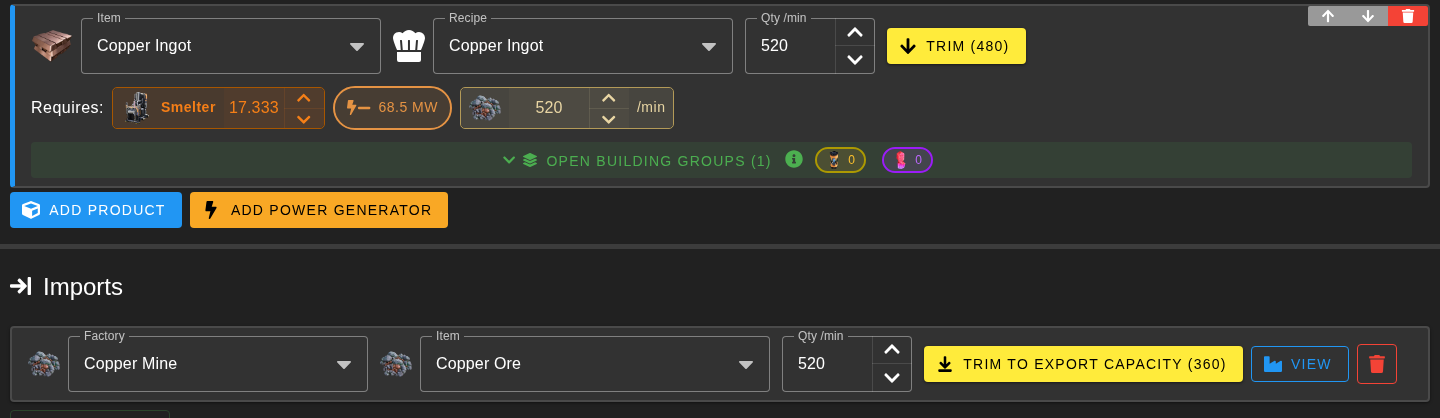
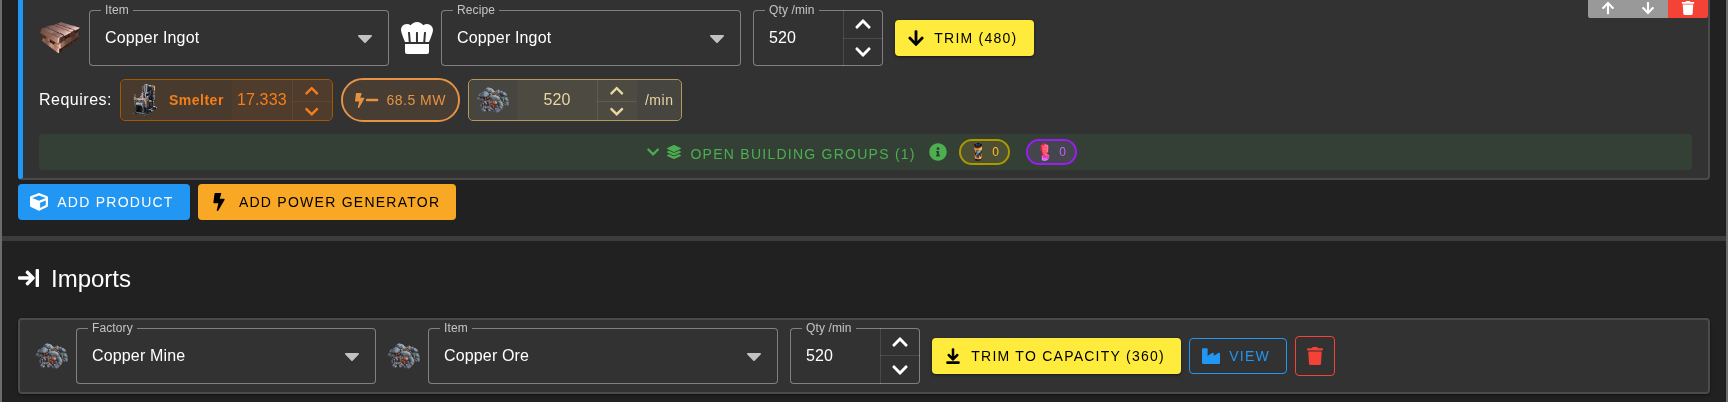
feat(web): satisfy an import to what the supplier can spare
Being short of more than a supplier can make took two presses. A factory
5,000 Limestone short of a mine with 2,600 spare had only Satisfy, which
sized the row against the 5,000 it needed, immediately over-asked the
mine, and put the freshly-added Trim to Capacity on screen to take it
straight back down to the 2,600 you could have had in the first place.

Satisfy to Capacity lands on that figure in one go: the Satisfy target,
capped at what the supplier actually has spare. It only appears when it
has something of its own to say — not when the supplier can cover the
whole need (Satisfy already lands within capacity), not when the row
already asks for more than the capacity (that is Trim to Capacity's job,
and it is on screen naming the same figure), and not when the supplier
has nothing spare, since zero is not a valid import quantity.

Need and Capacity are the two questions an import row can be sized
against, so all four buttons now say which one they answer: Satisfy to
Need and Trim to Need against what this factory wants, Satisfy to
Capacity and Trim to Capacity against what the supplier can give. Each
still names the figure it would set.

Taking the capacity doesn't pretend the shortfall is solved: the supplier
goes fully committed and green, and the importing factory keeps the gap
it always really had, with Satisfy to Need still on offer for a second
supplier.

Two things found while verifying this in the browser:
[…]

diff --git a/web/src/utils/factory-management/inputs.spec.ts b/web/src/utils/factory-management/inputs.spec.ts
@@ -7,9 +7,11 @@ import { addPowerProducerToFactory } from '@/utils/factory-management/power'
 import {
   addInputToFactory, calculateAbleToImport,
   calculateImportCandidates, calculateImportCapacity,
-  calculatePossibleImports, deleteInputPair, importExceedsCapacity, importFactorySelections,
+  calculatePossibleImports, canSatisfyImportToCapacity, deleteInputPair, importExceedsCapacity,
+  importFactorySelections,
   importPartSelections, importRowId, isDuplicateImport, isImportRedundant, satisfyImport,
-  satisfyImportTarget, trimImportToCapacity, validateInput,
+  satisfyImportTarget, satisfyImportToCapacity, satisfyImportToCapacityTarget,
+  trimImportToCapacity, validateInput,
 } from '@/utils/factory-management/inputs'
 import { getExportableFactories } from '@/utils/factory-management/exports'
 import { gameData } from '@/utils/gameData'
@@ -950,6 +952,122 @@ describe('inputs', () => {
         trimImportToCapacity(0, plateFac, ingotFac)
 
         expect(plateFac.inputs[0].amount).toBe(120)
+      })
+    })
+
+    // The other half of the same question: Trim shrinks a row down to the provider's capacity,
+    // this grows a short row up to it. Satisfy on its own would jump straight past the capacity to
+    // the full need, which then needs trimming straight back down again.
+    describe('satisfy to capacity', () => {
+      beforeEach(() => {
+        // The shared setup deliberately over-asks; shrink the row so there is room to grow into.
+        plateFac.inputs[0].amount = 50
+        calculateFactories(factories, gameData)
+      })
+
+      describe('satisfyImportToCapacityTarget', () => {
+        it('should cap the satisfy target at what the provider can spare', () => {
+          expect(satisfyImportTarget(0, plateFac)).toBe(300)
+          expect(satisfyImportToCapacityTarget(0, plateFac, ingotFac)).toBe(200)
+        })
+
+        it('should be the full need when the provider can cover it', () => {
+          ingotFac.products[0].amount = 400
+          calculateFactories(factories, gameData)
+
+          expect(satisfyImportToCapacityTarget(0, plateFac, ingotFac)).toBe(300)
+        })
+
+        it('should return null while the row is still being filled in', () => {
+          plateFac.inputs[0].outputPart = null
+          expect(satisfyImportToCapacityTarget(0, plateFac, ingotFac)).toBe(null)
+        })
+      })
+
+      describe('canSatisfyImportToCapacity', () => {
+        it('should offer when the provider cannot cover the whole need', () => {
+          expect(canSatisfyImportToCapacity(0, plateFac, ingotFac)).toBe(true)
+        })
+
+        it('should not offer when the provider can cover the whole need', () => {
+          // Satisfy already lands within capacity, so a second button would set the same figure.
+          ingotFac.products[0].amount = 400
+          calculateFactories(factories, gameData)
+
+          expect(canSatisfyImportToCapacity(0, plateFac, ingotFac)).toBe(false)
+        })
+
+        it('should not offer when the row already asks for more than the capacity', () => {
+          // That is Trim to Capacity's job, and it is already on screen saying the same figure.
+          plateFac.inputs[0].amount = 300
+          calculateFactories(factories, gameData)
+
+          expect(canSatisfyImportToCapacity(0, plateFac, ingotFac)).toBe(false)
+        })
+
+        it('should not offer when the row already sits exactly on the capacity', () => {
+          plateFac.inputs[0].amount = 200
+          calculateFactories(factories, gameData)
+
+          expect(canSatisfyImportToCapacity(0, plateFac, ingotFac)).toBe(false)
+        })
+
+        it('should not offer when the provider has nothing spare', () => {
+          // A quantity of zero is not a valid import and would only trip validateInput.
+          addProductToFactory(ingotFac, {
+            id: 'IronRod',
+            amount: 250,
+            recipe: 'IronRod',
+          })
+          calculateFactories(factories, gameData)
+
+          expect(canSatisfyImportToCapacity(0, plateFac, ingotFac)).toBe(false)
+        })
+
+        it('should not offer while the row is still being filled in', () => {
+          plateFac.inputs[0].outputPart = null
+          expect(canSatisfyImportToCapacity(0, plateFac, ingotFac)).toBe(false)
+        })
+      })
+
+      describe('satisfyImportToCapacity', () => {
+        it('should grow the import to what the provider can spare', () => {
+          satisfyImportToCapacity(0, plateFac, ingotFac)
+          expect(plateFac.inputs[0].amount).toBe(200)
+        })
+
+        it('should leave the provider fully committed but not over-asked', () => {
+          satisfyImportToCapacity(0, plateFac, ingotFac)
+          calculateFactories(factories, gameData)
+
+          expect(ingotFac.dependencies.metrics.IronIngot.request).toBe(200)
+          expect(ingotFac.dependencies.metrics.IronIngot.isRequestSatisfied).toBe(true)
+        })
+
+        it('should leave the importing factory showing the gap it always had', () => {
+          satisfyImportToCapacity(0, plateFac, ingotFac)
+          calculateFactories(factories, gameData)
+
+          // 300 needed, 200 obtainable: the 100 shortfall stays on the factory that has it,
+          // rather than surfacing on the provider as an export request it can never meet.
+          expect(plateFac.parts.IronIngot.amountRemaining).toBe(-100)
+        })
+
+        it('should stop at the need when the provider can cover more', () => {
+          ingotFac.products[0].amount = 400
+          calculateFactories(factories, gameData)
+
+          satisfyImportToCapacity(0, plateFac, ingotFac)
+
+          expect(plateFac.inputs[0].amount).toBe(300)
+        })
+
+        it('should return null and leave the row alone if there is no target', () => {
+          plateFac.inputs[0].outputPart = null
+
+          expect(satisfyImportToCapacity(0, plateFac, ingotFac)).toBe(null)
+          expect(plateFac.inputs[0].amount).toBe(50)
+        })
       })
     })
   })

diff --git a/web/src/components/planner/imports/Imports.vue b/web/src/components/planner/imports/Imports.vue
@@ -82,34 +82,59 @@
           />
           <debounce-spinner :active="pendingRecalc === `${input.factoryId}-${input.outputPart}`" />
         </div>
-        <div class="input-row d-flex align-center">
+        <!-- Wraps rather than overflowing: a row can carry a Need button and a Capacity button at
+             once, and the pair plus View and delete is wider than the card on any screen. -->
+        <div class="input-row d-flex align-center flex-wrap ga-2">
+          <!-- Need and Capacity are the two questions an import row can be sized against: what this
+               factory wants, and what the supplier can actually give. Every button here names which
+               one it answers, because asking a supplier for more than it makes is a valid thing to
+               do deliberately and used to be the only thing Satisfy could do. -->
           <v-btn
             v-show="requirementSatisfied(factory, input.outputPart) && showInputOverflow(factory, input.outputPart)"
-            class="rounded mr-2"
+            class="rounded"
             color="yellow"
             prepend-icon="fas fa-arrow-down"
             size="default"
             @click="updateInputToSatisfy(inputIndex, factory)"
-          >Trim{{ satisfyTargetLabel(inputIndex) }}</v-btn>
+          >Trim to Need{{ satisfyTargetLabel(inputIndex) }}</v-btn>
           <v-btn
             v-show="input.outputPart && !requirementSatisfied(factory, input.outputPart)"
-            class="rounded mr-2"
+            class="rounded"
             color="green"
             prepend-icon="fas fa-arrow-up"
             size="default"
             @click="updateInputToSatisfy(inputIndex, factory)"
-          >Satisfy{{ satisfyTargetLabel(inputIndex) }}</v-btn>
+          >Satisfy to Need{{ satisfyTargetLabel(inputIndex) }}</v-btn>
+          <v-tooltip location="top" max-width="360">
+            <template #activator="{ props: tooltipProps }">
+              <span v-show="canSatisfyToCapacity(inputIndex)">
+                <v-btn
+                  v-bind="tooltipProps"
+                  class="rounded"
+                  color="green"
+                  prepend-icon="fas fa-arrow-to-top"
+                  size="default"
+                  @click="satisfyInputToCapacity(inputIndex, factory)"
+                >Satisfy to Capacity{{ fixTargetSuffix(importCapacity(inputIndex)) }}</v-btn>
+              </span>
+            </template>
+            <span>
+              This factory needs more than {{ providerName(inputIndex) }} can supply. Take the
+              {{ formatNumber(importCapacity(inputIndex) ?? 0) }}/min it does have spare, rather
+              than asking for the full amount and having to trim it back afterwards.
+            </span>
+          </v-tooltip>
           <v-tooltip location="top" max-width="360">
             <template #activator="{ props: tooltipProps }">
               <span v-show="exceedsCapacity(inputIndex)">
                 <v-btn
                   v-bind="tooltipProps"
-                  class="rounded mr-2"
+                  class="rounded"
                   color="yellow"
                   prepend-icon="fas fa-arrow-to-bottom"
                   size="default"
                   @click="trimInputToCapacity(inputIndex, factory)"
-                >Trim to Export Capacity{{ fixTargetSuffix(importCapacity(inputIndex)) }}</v-btn>
+                >Trim to Capacity{{ fixTargetSuffix(importCapacity(inputIndex)) }}</v-btn>
               </span>
             </template>
             <span>
@@ -129,7 +154,7 @@
             @click="navigateToSource(input)"
           >View</v-btn>
           <v-btn
-            class="rounded ml-2"
+            class="rounded"
             color="red"
             icon="fas fa-trash"
             size="small"
@@ -174,6 +199,7 @@
     calculateImportCandidates,
     calculateImportCapacity,
     calculatePossibleImports,
+    canSatisfyImportToCapacity,
     deleteInputPair,
     importExceedsCapacity,
     importFactorySelections,
@@ -183,6 +209,7 @@
     isImportRedundant,
     satisfyImport,
     satisfyImportTarget,
+    satisfyImportToCapacity,
     trimImportToCapacity,
     validateInput,
   } from '@/utils/factory-management/inputs'
@@ -384,6 +411,20 @@
   const exceedsCapacity = (inputIndex: number): boolean => {
     const provider = providerFor(inputIndex)
     return provider ? importExceedsCapacity(inputIndex, props.factory, provider) : false
+  }
+
+  const canSatisfyToCapacity = (inputIndex: number): boolean => {
+    const provider = providerFor(inputIndex)
+    return provider ? canSatisfyImportToCapacity(inputIndex, props.factory, provider) : false
+  }
+
+  const satisfyInputToCapacity = (inputIndex: number, factory: Factory) => {
+    const provider = providerFor(inputIndex)
+    if (!provider) {
+      return
+    }
+    satisfyImportToCapacity(inputIndex, factory, provider)
+    updateFactories(factory, factory.inputs[inputIndex])
   }
 
   const trimInputToCapacity = (inputIndex: number, factory: Factory) => {

diff --git a/web/src/pages/changelog.vue b/web/src/pages/changelog.vue
@@ -204,16 +204,31 @@
         <h2>👍 <i class="fas fa-arrow-to-bottom ml-1" /><span class="ml-2">Satisfy &amp; Trim say what they will set</span></h2>
         <p>Every <b>Satisfy</b> and <b>Trim</b> now names the figure it would land on, right there on the button. No more pressing one to find out what it does, then trying to remember the old number to undo it.</p>
         <v-img
-          alt="A product's Trim (480) button above an import's Trim to Export Capacity (360) button"
+          alt="A product's Trim (480) button above an import's Trim to Capacity (360) button"
           max-width="1200"
           src="/assets/changelog/beta6/satisfy-trim-targets.png"
         />
         <ul class="ml-6 mt-2">
           <li>Products, imports and building groups all carry it, each in its own units: a product's new Qty/min, an import's new quantity, and the output a building group would be left producing (MW for a power generator's group).</li>
-          <li><b>New: Trim to Export Capacity.</b> An import that asks a factory for more than it can make now offers to trim itself to fit. Nothing used to stop you requesting 1,015 of something from a factory producing 900 — and the 115 it could never deliver showed up on the <i>supplier</i>, a long way from the row that caused it.</li>
+          <li><b>New: Trim to Capacity.</b> An import that asks a factory for more than it can make now offers to trim itself to fit. Nothing used to stop you requesting 1,015 of something from a factory producing 900 — and the 115 it could never deliver showed up on the <i>supplier</i>, a long way from the row that caused it.</li>
           <li>Capacity is what the supplier has <b>spare</b>: what it makes, less what its own production and generators consume, less everything it has already promised to other factories.</li>
-          <li>It only ever shrinks a request. A row that already fits is left alone, so this is not a second <b>Satisfy</b>: Satisfy sizes an import against what <i>this</i> factory needs, Trim to Export Capacity sizes it against what the supplier can actually give.</li>
+          <li>It only ever shrinks a request. A row that already fits is left alone, so this is not a second <b>Satisfy</b>: Satisfy sizes an import against what <i>this</i> factory needs, Trim to Capacity sizes it against what the supplier can actually give.</li>
           <li>The shortfall doesn't vanish, it moves to where it belongs: the supplier goes green, and this factory shows the gap it always really had.</li>
+        </ul>
+
+        <v-divider class="subsection" />
+
+        <h2>👍 <i class="fas fa-arrow-to-top ml-1" /><span class="ml-2">Satisfy an import to what the supplier can spare</span></h2>
+        <p>Being short of more than a supplier can make used to take two presses: <b>Satisfy</b> asked for the lot, over-asked the supplier, and put a <b>Trim to Capacity</b> button on screen to take it straight back down. <b>Satisfy to Capacity</b> lands on the right figure in one.</p>
+        <v-img
+          alt="An import row offering both Satisfy to Need (520) and Satisfy to Capacity (360)"
+          max-width="1200"
+          src="/assets/changelog/beta6/satisfy-to-capacity.png"
+        />
+        <ul class="ml-6 mt-2">
+          <li>Every button on an import row now says which question it answers: <b>Satisfy to Need</b> and <b>Trim to Need</b> size the row against what this factory wants, <b>Satisfy to Capacity</b> and <b>Trim to Capacity</b> against what the supplier can actually give.</li>
+          <li><b>Satisfy to Capacity</b> only turns up when it has something of its own to say — not when the supplier can cover the whole need, not when the row already over-asks (that's <b>Trim to Capacity</b>, already on screen saying the same figure), and not when the supplier has nothing spare.</li>
+          <li>It doesn't pretend the shortfall is solved: the supplier goes green and fully committed, and this factory keeps the gap it always really had, with <b>Satisfy to Need</b> still there for when you find it a second supplier.</li>
         </ul>
 
         <v-divider class="subsection" />

diff --git a/web/src/utils/factory-management/inputs.ts b/web/src/utils/factory-management/inputs.ts
@@ -357,6 +357,68 @@ export const trimImportToCapacity = (
   input.amount = capacity
 }
 
+// The quantity that fills as much of this factory's shortfall as the provider can actually cover:
+// the Satisfy target, capped at the provider's spare capacity.
+//
+// Satisfying a request the provider cannot meet used to be a two-press affair — Satisfy took the
+// row to the full 5,000 this factory needs, which immediately over-asked a provider with 2,600
+// spare, and Trim to Capacity then took it back down to 2,600. This lands on the 2,600 in one go.
+export const satisfyImportToCapacityTarget = (
+  importIndex: number,
+  factory: Factory,
+  provider: Factory
+): number | null => {
+  const need = satisfyImportTarget(importIndex, factory)
+  const capacity = calculateImportCapacity(importIndex, factory, provider)
+
+  if (need === null || capacity === null) {
+    return null // The user is still filling the row in.
+  }
+
+  return Math.min(need, capacity)
+}
+
+// Whether the row is worth offering a "Satisfy to Capacity" for, which is only when it says
+// something the buttons beside it don't:
+//
+//  - a capacity of 0 leaves nothing to satisfy to, and would trip the <=0 guard in validateInput
+//  - a provider that can cover the whole need makes this identical to Satisfy
+//  - a capacity below what the row already asks for makes this identical to Trim to Capacity
+export const canSatisfyImportToCapacity = (
+  importIndex: number,
+  factory: Factory,
+  provider: Factory
+): boolean => {
+  const need = satisfyImportTarget(importIndex, factory)
+  const capacity = calculateImportCapacity(importIndex, factory, provider)
+
+  if (need === null || capacity === null || capacity <= 0) {
+    return false
+  }
+
+  if (capacity >= need) {
+    return false
+  }
+
+  return capacity > (factory.inputs[importIndex].amount ?? 0)
+}
+
+// Grows the import to as much of this factory's shortfall as the provider can actually spare.
+export const satisfyImportToCapacity = (
+  importIndex: number,
+  factory: Factory,
+  provider: Factory
+): void | null => {
+  const target = satisfyImportToCapacityTarget(importIndex, factory, provider)
+
+  if (target === null) {
+    console.error('inputs: satisfyImportToCapacity: No target could be calculated for import:', factory.inputs[importIndex])
+    return null
+  }
+
+  factory.inputs[importIndex].amount = target
+}
+
 export const deleteInputPair = (factory: Factory, input: FactoryInput, factories: Factory[], gameData: DataInterface): void => {
   // Remove the exact row the user clicked. Matching on factory + part instead would take
   // every half-configured row (all of which read as null-null) with it.

diff --git a/web/src/auto-imports.d.ts b/web/src/auto-imports.d.ts
@@ -1,5 +1,7 @@
 /* eslint-disable */
 /* prettier-ignore */
+/* oxlint-disable */
+/* oxfmt-ignore */
 // @ts-nocheck
 // noinspection JSUnusedGlobalSymbols
 // Generated by unplugin-auto-import

diff --git a/CHANGELOG.md b/CHANGELOG.md
@@ -116,11 +116,19 @@ Raw resources are no longer assumed. Ore, water, oil and gas are dug up by build
 
 ### Imports: trim a request to what the supplier can spare
 
-- **An import that asks for more than its supplier makes now offers to trim itself to fit.** Nothing stopped a factory requesting 1,015 Dark Matter Residue from a plant that only produces 900: the request went in, and the 115 it could never deliver surfaced on the *supplier* as an unmet export request, a long way from the row that caused it. The import row now carries a **Trim to Export Capacity** button whenever it over-asks, naming the figure like every other Trim does.
+- **An import that asks for more than its supplier makes now offers to trim itself to fit.** Nothing stopped a factory requesting 1,015 Dark Matter Residue from a plant that only produces 900: the request went in, and the 115 it could never deliver surfaced on the *supplier* as an unmet export request, a long way from the row that caused it. The import row now carries a **Trim to Capacity** button whenever it over-asks, naming the figure like every other Trim does.
 - **Capacity is what the supplier has left**, after what its own production lines and power generators consume, and after every promise it has already made to other factories. So a plant making 400 Diamonds and eating 96 of them itself can spare 304, and where two factories draw on the same item the row being trimmed takes what is left rather than what the other one already has. Its own other rows against the same supplier count too, since those are separate promises the supplier still has to keep.
-- **It only ever shrinks a request.** A row that already fits is left exactly as you set it, so the button is not a second Satisfy: **Satisfy** sizes an import against what the importing factory *needs*, and this sizes it against what the supplier can actually *give*. The two answer different questions and can both be on offer at once.
-- Trimming doesn't make the shortfall disappear, it moves it to where it belongs: the supplier goes green, and the importing factory shows the gap it has always really had, with the usual **Satisfy** and shortage controls to go and solve it.
+- **It only ever shrinks a request.** A row that already fits is left exactly as you set it, so the button is not a second Satisfy: Satisfy sizes an import against what the importing factory *needs*, and this sizes it against what the supplier can actually *give*. The two answer different questions and can both be on offer at once.
+- Trimming doesn't make the shortfall disappear, it moves it to where it belongs: the supplier goes green, and the importing factory shows the gap it has always really had, with the usual Satisfy and shortage controls to go and solve it.
 - The button hides itself when there is no capacity to trim to at all — a supplier with nothing spare leaves the row nothing to snap to, and a quantity of zero is not a valid import.
+
+### Imports: satisfy a request to what the supplier can spare
+
+- **A shortfall bigger than its supplier can cover now takes one press, not two.** A factory 5,000 Limestone short of a supplier with 2,600 spare had only **Satisfy**, which sized the row against the 5,000 it needed, immediately over-asked the supplier, and put a **Trim to Capacity** button on screen to take it straight back down to the 2,600 you could actually have had. **Satisfy to Capacity** lands on the 2,600 in one go.
+- **Every button on an import row now says which of the two questions it answers**: **Satisfy to Need** and **Trim to Need** size the row against what this factory wants, **Satisfy to Capacity** and **Trim to Capacity** size it against what the supplier can actually give. All four name the figure they would set, as before.
+- **Satisfy to Capacity only appears when it has something of its own to say**: it is hidden when the supplier can cover the whole need (Satisfy already lands within capacity), when the row already asks for more than the capacity (that is Trim to Capacity's job, and it is on screen saying the same figure), and when the supplier has nothing spare at all.
+- Taking the capacity doesn't pretend the shortfall is solved. The supplier goes fully committed and green, and the importing factory keeps the gap it always really had, with **Satisfy to Need** still on offer for when you find it a second supplier.
+- The buttons now wrap onto a second line rather than overflowing the row, so a row carrying both a Need button and a Capacity button no longer pushes **View** and the delete button off the edge of the card.
 
 ### Factory status indicators
 
